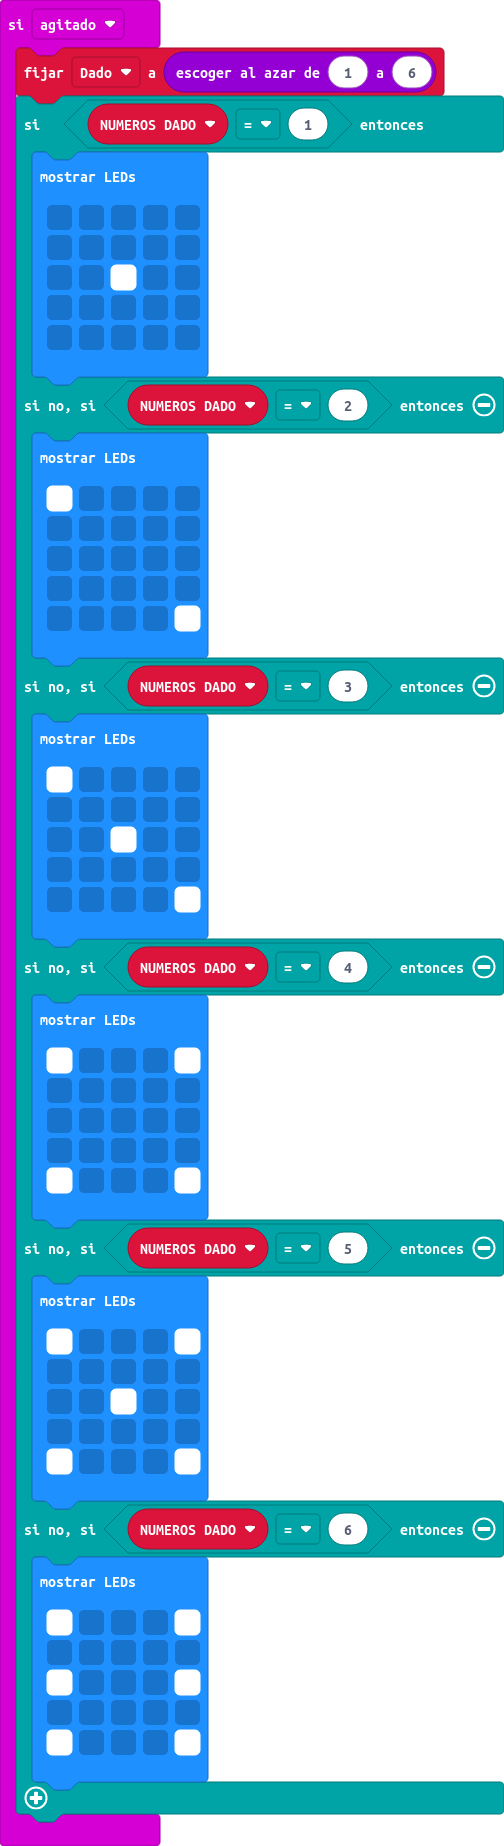
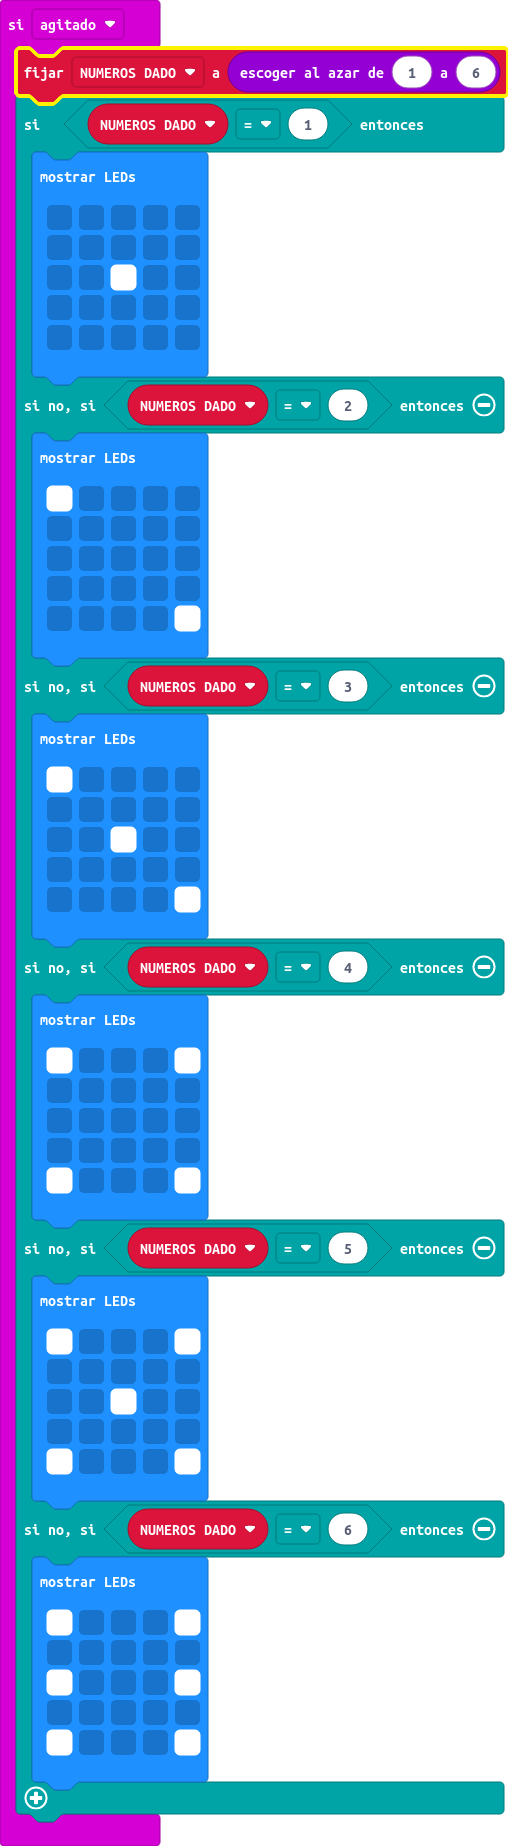
Actualizar main.blocks, main.ts

diff --git a/main.ts b/main.ts
@@ -1,7 +1,6 @@
-let Dado = 0
+let NUMEROS_DADO = 0
 input.onGesture(Gesture.Shake, function () {
-    let NUMEROS_DADO = 0
-    Dado = randint(1, 6)
+    NUMEROS_DADO = randint(1, 6)
     if (NUMEROS_DADO == 1) {
         basic.showLeds(`
             . . . . .
